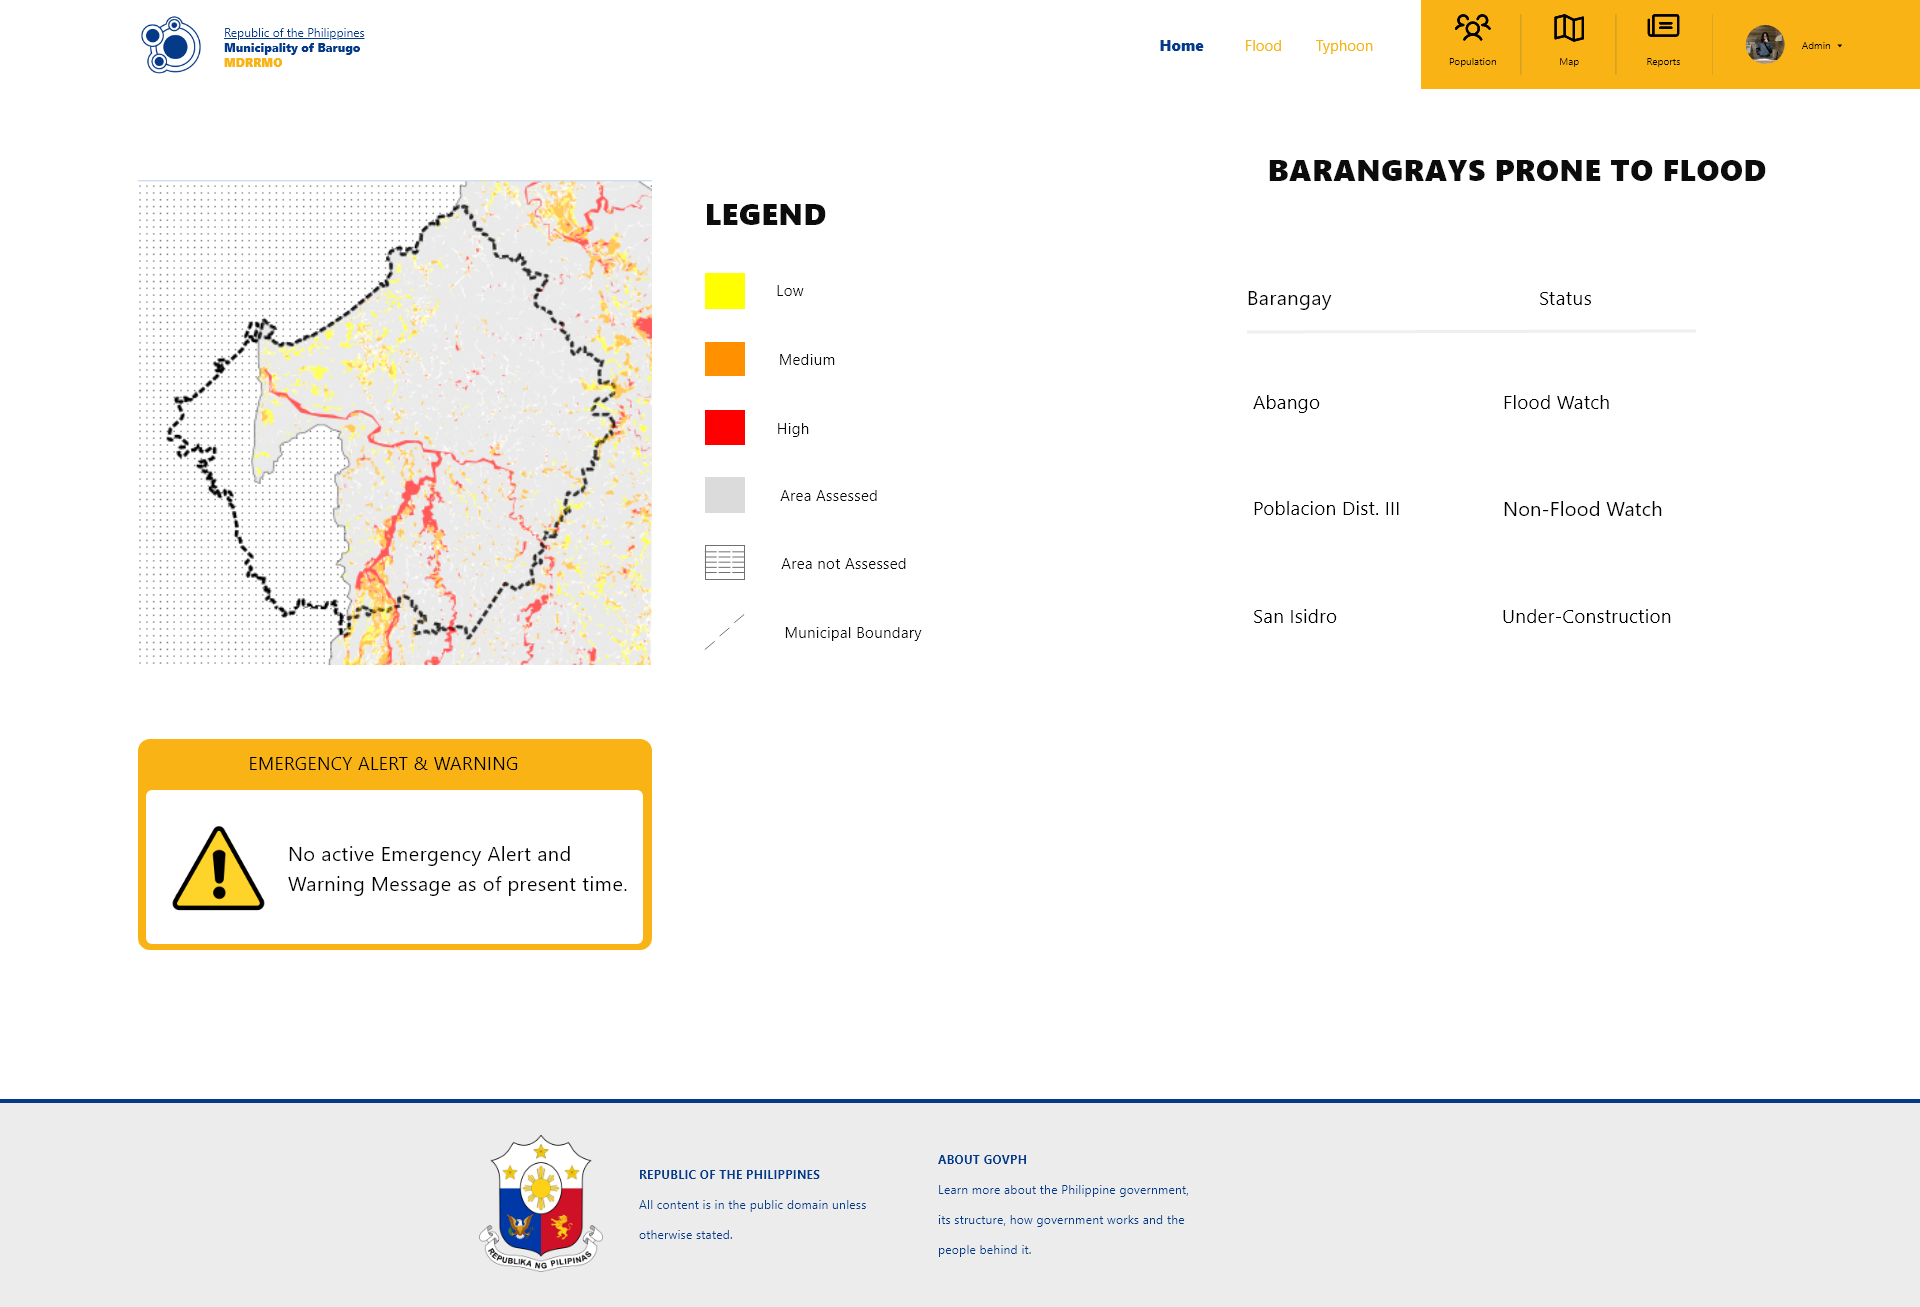
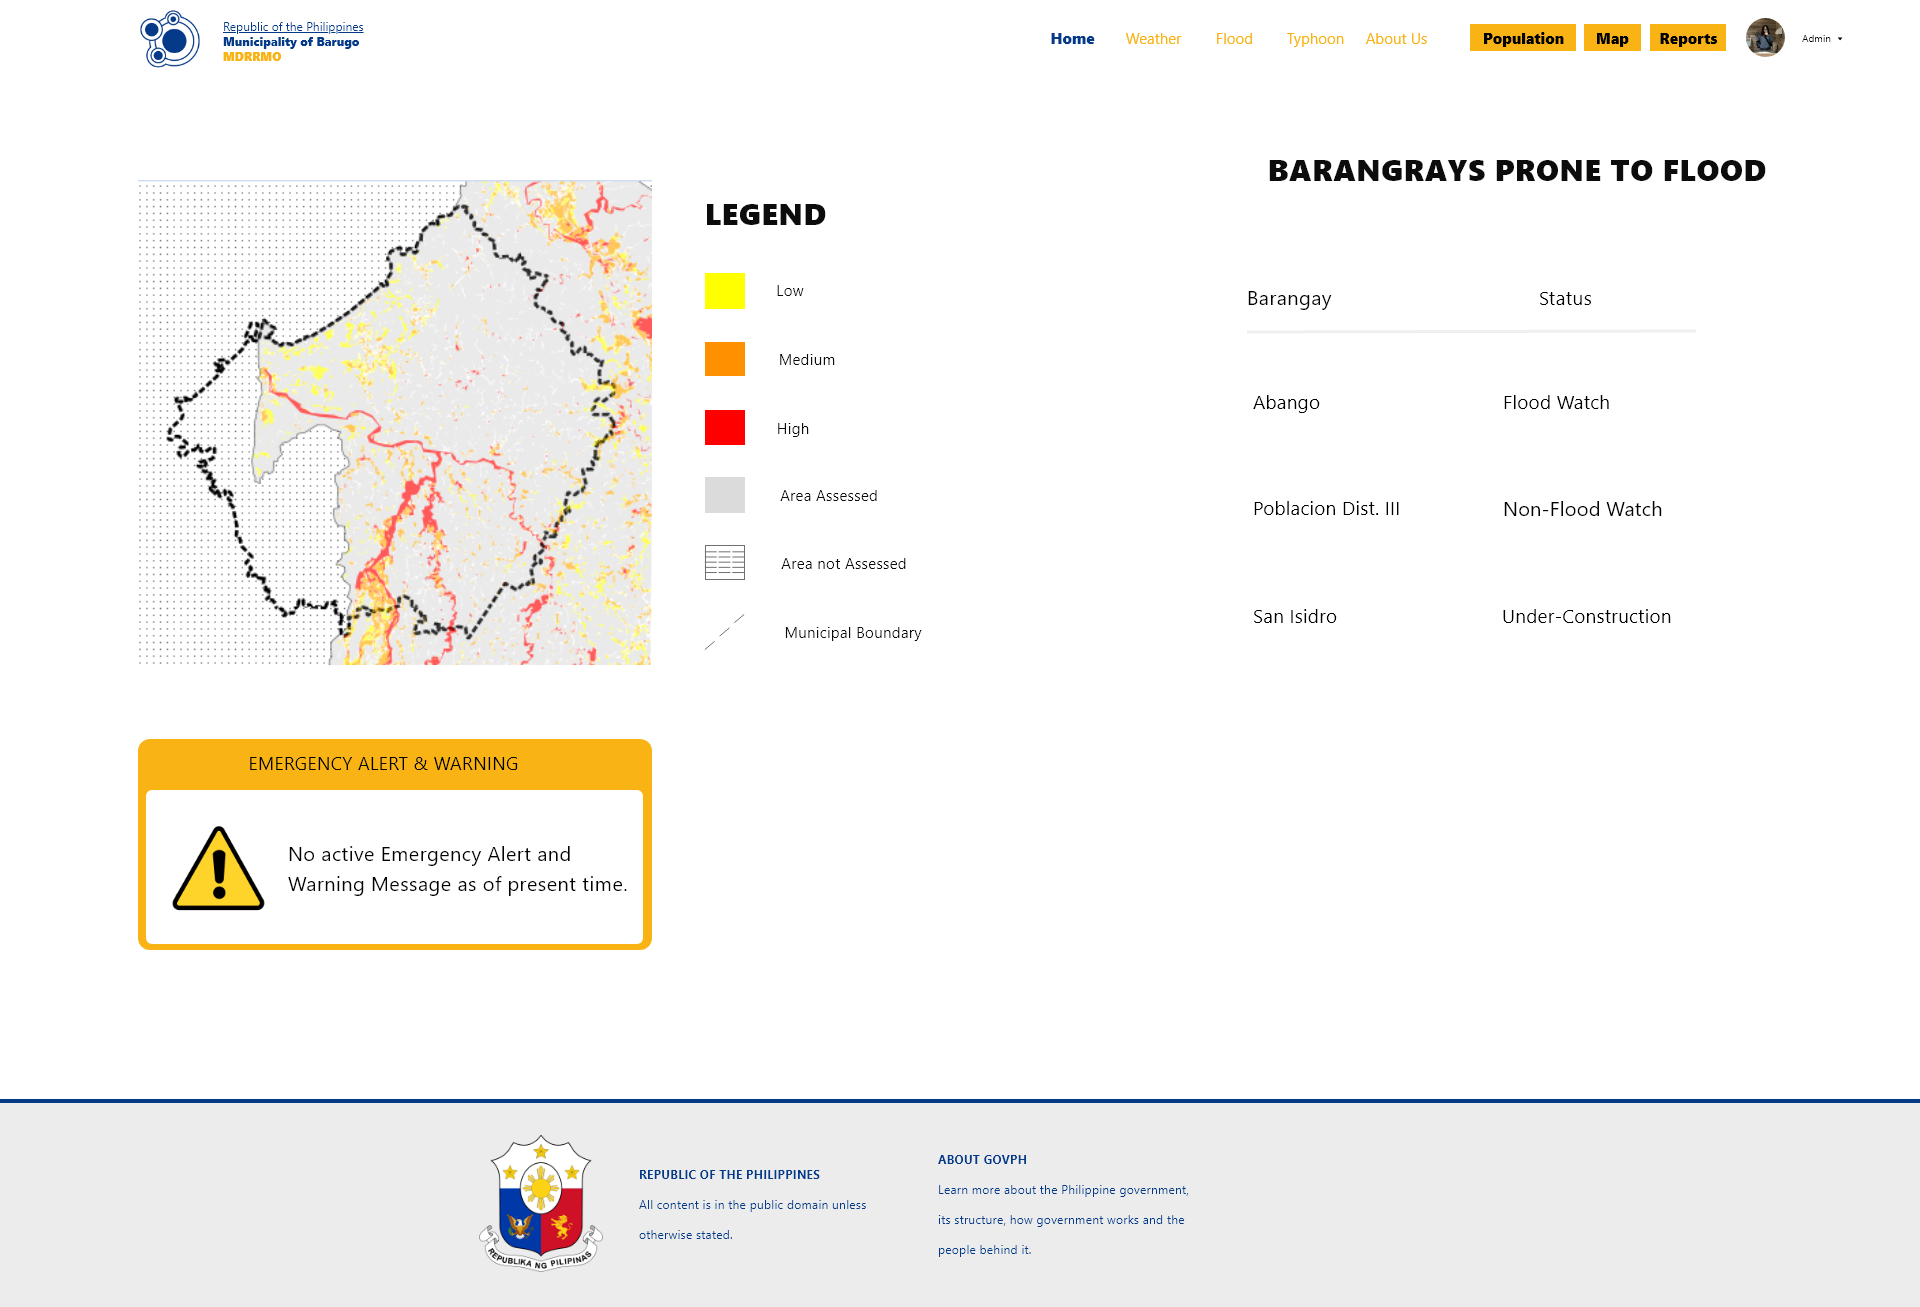
added about us

Changed region(s): [[0.6875, 0.0, 1.0, 0.0918], [0.0625, 0.0, 0.1875, 0.0612], [0.5938, 0.0306, 0.625, 0.0612]]

diff --git a/css/about.css b/css/about.css
@@ -1,0 +1,166 @@
+.top-bg {
+    background-image: url('../images/about.png');
+}
+
+.topnav {
+    width: 100%;
+    top: 0;
+    position: fixed;
+    height: 200px;
+    max-height: 200px;
+    min-height: 50px;
+    overflow: hidden;
+    background-color: transparent;
+    margin: 0;
+    z-index: 10;
+    border: 0;
+}
+
+.topnav::before {
+    content: "";
+    display: block;
+    position: fixed;
+    top: 0;
+    left: 0;
+    width: 100%;
+    height: 35%;
+    background-image: url('../images/about.png');
+    opacity: 0.8;
+    z-index: -1;
+}
+
+.topnav a {
+    height: 30px;
+    float: right;
+    display: block;
+    color: #f9b314;
+    text-align: center;
+    padding: 15px 12px;
+    text-decoration: none;
+    font-size: 12px;
+    font-weight: 600;
+}
+
+.topnav a:hover {
+    color: #043a87;  
+    fill:#ffffff;  
+}
+
+.topnav a.active {
+    color: #043a87;
+    fill: #ffffff;
+}
+
+.topnav a:first-child {
+    width: 80px;
+    background-color: red;
+}
+
+.topnav a:nth-child(-n + 5) {
+    display: flex;
+    flex-direction: column;
+    width: 7em;
+    height: 10px;
+    background-color: #f9b314;
+    align-items: center;
+    justify-content: center;
+    color: #000000;
+    text-decoration: none;
+    padding: 0px 0px 20px 0px;
+    margin: 10px 20px 0px 0px;
+    font-size: 12px;
+    font-weight: 500;
+    transition: 0.3s;
+}
+
+.topnav a:nth-child(-n + 5):hover {
+    background-color: #043a87;
+    color: #ffffff;
+}
+
+.topnav a:nth-child(-n + 5).active {
+    background-color: #043a87;
+    color: #ffffff;
+}
+
+.navcont {
+    border: 0px;
+    /* border-right: 1px solid #e5a920; */
+    width: 67px;
+    margin: 0px;
+    height: 40px;
+    /* padding-right: 1px; */
+}
+
+.navcont svg {
+    height: 20px;
+    width: 20px;
+}
+
+.topnav .icon {
+    display: none;
+}
+
+@media screen and (max-width: 600px) {
+    .topnav a:not(:first-child) {display: none;}
+    .topnav a.icon {
+        float: right;
+        display: block;
+    }
+}
+
+@media screen and (max-width: 600px) {
+    .topnav.responsive {position: relative;}
+    .topnav.responsive .icon {
+        position: absolute;
+        right: 0;
+        top: 0;
+    }
+    .topnav.responsive a {
+        float: none;
+        display: block;
+        text-align: left;
+    }
+}
+
+.topcont {
+    /* border: 1px solid red; */
+    width: 150px;
+    /* height: 50px; */
+    position: absolute;
+    left: 9%;
+    margin-top: 8px;
+    font-size: 8px;
+    cursor: default;
+}
+
+.p1 {
+    text-decoration: underline;
+    font-weight: 500;
+    
+    color: #043a87;
+}
+
+.p2 {
+    text-decoration: none;
+    font-weight: 800;
+    color: #043a87;
+}
+
+.p3 {
+    text-decoration: none;
+    font-weight: 800;
+    
+    color: #f9b314;
+}
+
+.p1, .p2, .p3 {
+    text-shadow: 0.5px 0.5px 2px #ffffff;
+}
+
+.top-img {
+    /* position: absolute; */
+    margin-top: -35%;
+    width: cover;
+    opacity: 0.8;
+}

diff --git a/about.php b/about.php
@@ -1,0 +1,62 @@
+<!DOCTYPE html>
+<html lang="en">
+<head>
+  <meta charset="UTF-8">
+  <meta name="viewport" content="width=device-width, initial-scale=1.0">
+  <title>Disaster Ready: Official Website of MDRRMO Barugo</title>
+  <link rel="stylesheet" href="css/main.css">
+  <link rel="stylesheet" href="css/about.css">
+  <link rel="icon" href="images/icon.png">
+  <link rel="stylesheet" href="https://cdnjs.cloudflare.com/ajax/libs/font-awesome/4.7.0/css/font-awesome.min.css">
+  <script src="js/script.js"></script>
+</head>
+<body>
+<div class="topnav" id="myTopnav">
+  <img src="images/icon.png">
+    <div class="topcont">
+      <div class="p1">Republic of the Philippines</div>
+      <div class="p2">Municipality of Barugo</div>
+      <div class="p3">MDRRMO</div>
+    </div>
+    <a href="" style="width: 70px; display: none;">
+      <!-- <svg xmlns="http://www.w3.org/2000/svg" width="24" height="24" viewBox="0 0 256 256">
+        <path d="M128,24A104,104,0,1,0,232,128,104.11,104.11,0,0,0,128,24ZM74.08,197.5a64,64,0,0,1,107.84,0,87.83,87.83,0,0,1-107.84,0ZM96,120a32,32,0,1,1,32,32A32,32,0,0,1,96,120Zm97.76,66.41a79.66,79.66,0,0,0-36.06-28.75,48,48,0,1,0-59.4,0,79.66,79.66,0,0,0-36.06,28.75,88,88,0,1,1,131.52,0Z"></path>
+      </svg>
+      <br>Login -->
+    </a>
+
+    <!-- <a href="reports.php">
+      <div class="navcont">
+        <svg xmlns="http://www.w3.org/2000/svg" width="24" height="24" viewBox="0 0 256 256">
+          <path d="M88,112a8,8,0,0,1,8-8h80a8,8,0,0,1,0,16H96A8,8,0,0,1,88,112Zm8,40h80a8,8,0,0,0,0-16H96a8,8,0,0,0,0,16ZM232,64V184a24,24,0,0,1-24,24H32A24,24,0,0,1,8,184.11V88a8,8,0,0,1,16,0v96a8,8,0,0,0,16,0V64A16,16,0,0,1,56,48H216A16,16,0,0,1,232,64Zm-16,0H56V184a23.84,23.84,0,0,1-1.37,8H208a8,8,0,0,0,8-8Z"></path>
+        </svg>
+        <br>Reports
+      </div>
+    </a> -->
+
+    <a href="map.php">
+      <div class="navcont">
+        <br>Map
+      </div>
+    </a>
+
+    <a href="population.php">
+      <div class="navcont">
+        <br>Population
+      </div>
+    </a>
+
+    <a href="about.php" class="active">About</a>
+    <a href="typhoon.php">Typhoon</a>
+    <a href="flood.php">Flood</a>
+    <a href="weather.php">Weather</a>
+    <a href="index.php">Home</a>
+    <a href="javascript:void(0);" class="icon" onclick="myFunction()">
+      <i class="fa fa-bars"></i>
+    </a>
+</div>
+
+<!-- <div class="top-img">
+    
+</div> -->
+<div class="main">

diff --git a/flood.php b/flood.php
@@ -53,6 +53,7 @@
       </div>
     </a>
 
+    <a href="about.php">About</a>
     <a href="typhoon.php">Typhoon</a>
     <a href="flood.php" class="active">Flood</a>
     <a href="weather.php">Weather</a>

diff --git a/typhoon.php b/typhoon.php
@@ -54,6 +54,7 @@
       </div>
     </a>
 
+    <a href="about.php">About</a>
     <a href="typhoon.php" class="active">Typhoon</a>
     <a href="flood.php">Flood</a>
     <a href="weather.php">Weather</a>

diff --git a/weather.php b/weather.php
@@ -51,6 +51,7 @@
       </div>
     </a>
 
+    <a href="about.php">About</a>
     <a href="typhoon.php">Typhoon</a>
     <a href="flood.php">Flood</a>
     <a href="weather.php" class="active">Weather</a>

diff --git a/index.php b/index.php
@@ -52,6 +52,7 @@
       </div>
     </a>
 
+    <a href="about.php">About</a>
     <a href="typhoon.php">Typhoon</a>
     <a href="flood.php">Flood</a>
     <a href="weather.php">Weather</a>

diff --git a/map.php b/map.php
@@ -57,6 +57,7 @@
       </div>
     </a>
 
+    <a href="about.php">About</a>
     <a href="typhoon.php">Typhoon</a>
     <a href="flood.php">Flood</a>
     <a href="weather.php">Weather</a>

diff --git a/population.php b/population.php
@@ -53,6 +53,7 @@
       </div>
     </a>
 
+    <a href="about.php">About</a>
     <a href="typhoon.php">Typhoon</a>
     <a href="flood.php">Flood</a>
     <a href="weather.php">Weather</a>
